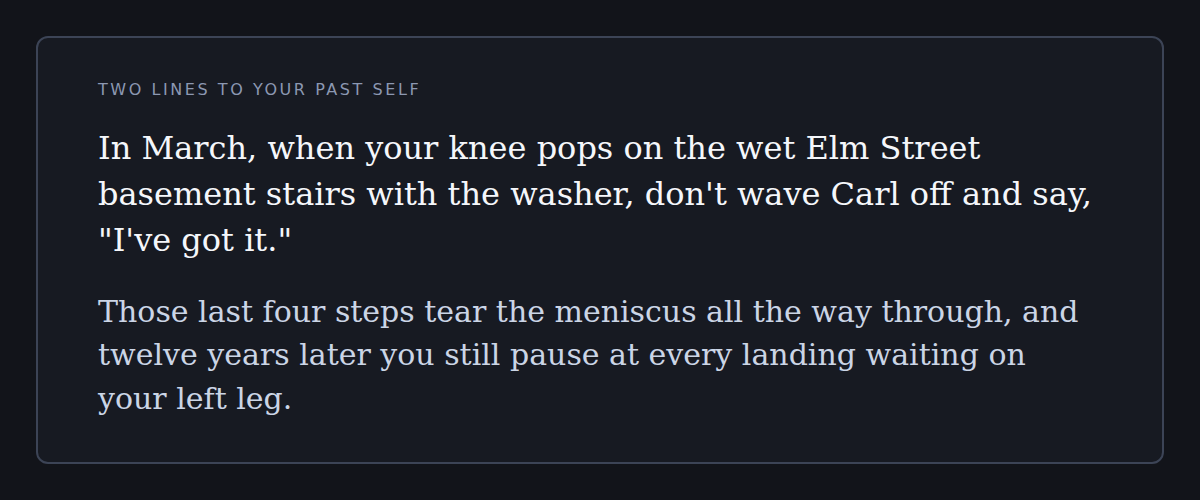
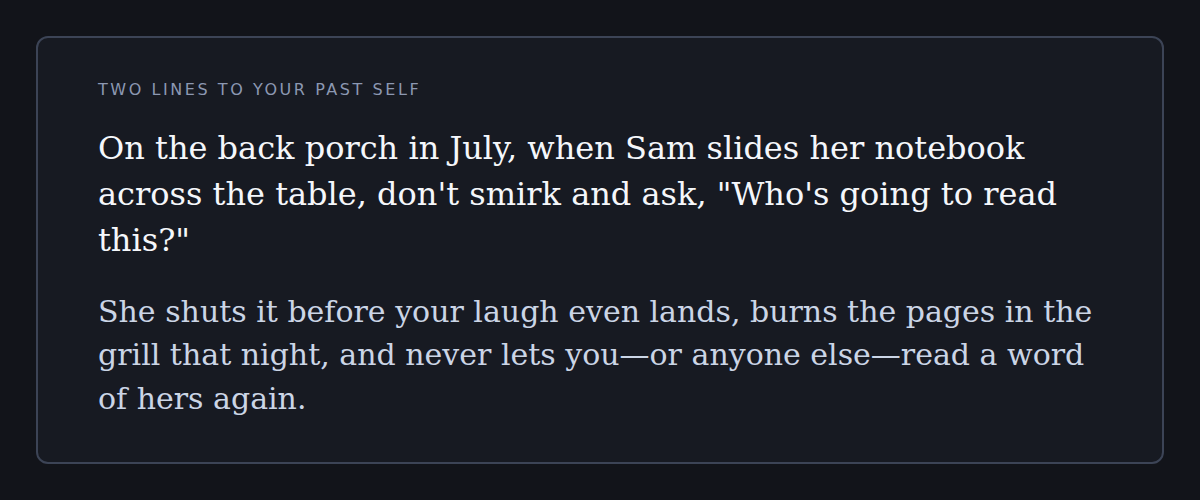
Draft 6: two lines to your past self

diff --git a/main.ts b/main.ts
@@ -2,9 +2,9 @@
 import { mkdirSync, writeFileSync } from "node:fs";
 
 const line1 =
-  'In March, when your knee pops on the wet Elm Street basement stairs with the washer, don\'t wave Carl off and say, "I\'ve got it."';
+  'On the back porch in July, when Sam slides her notebook across the table, don\'t smirk and ask, "Who\'s going to read this?"';
 const line2 =
-  "Those last four steps tear the meniscus all the way through, and twelve years later you still pause at every landing waiting on your left leg.";
+  "She shuts it before your laugh even lands, burns the pages in the grill that night, and never lets you\u2014or anyone else\u2014read a word of hers again.";
 
 const entry = `${line1}\n${line2}`;
 
